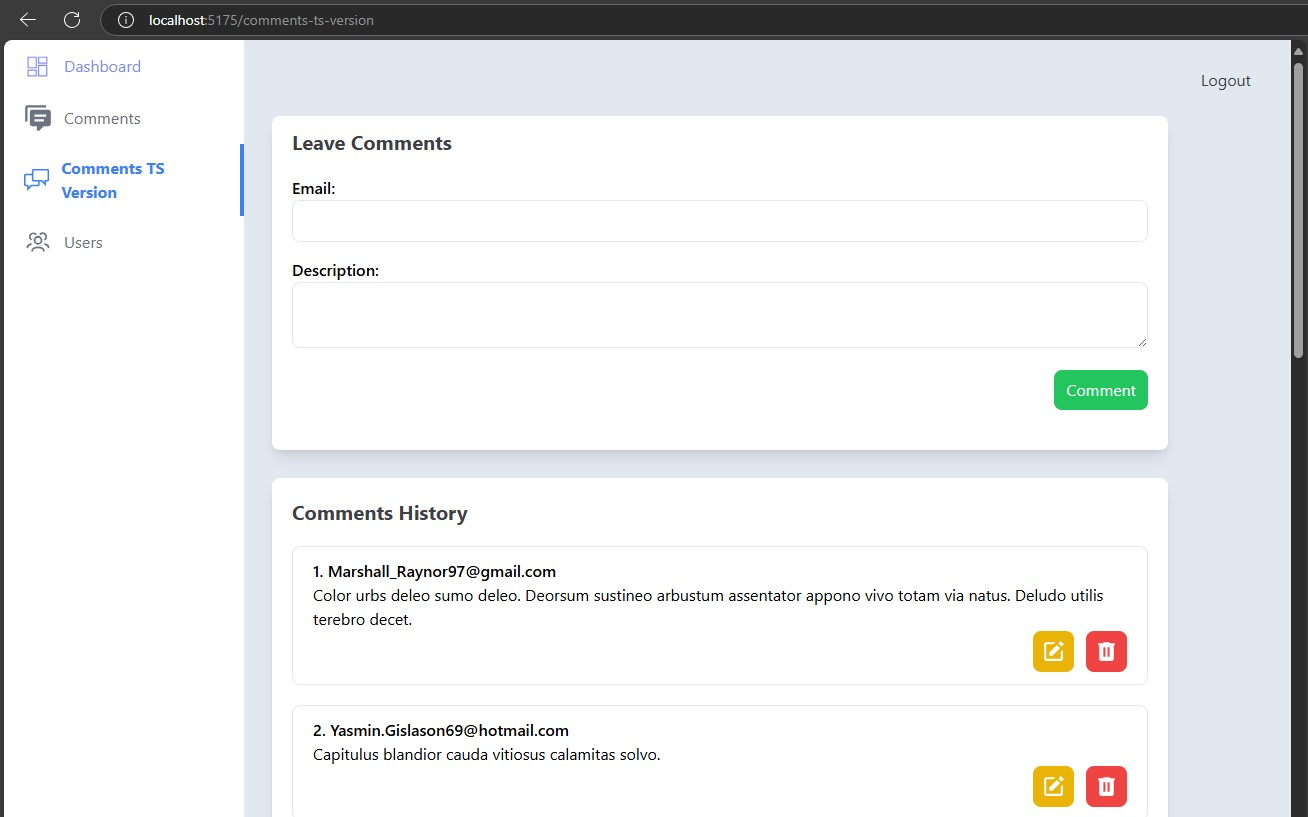
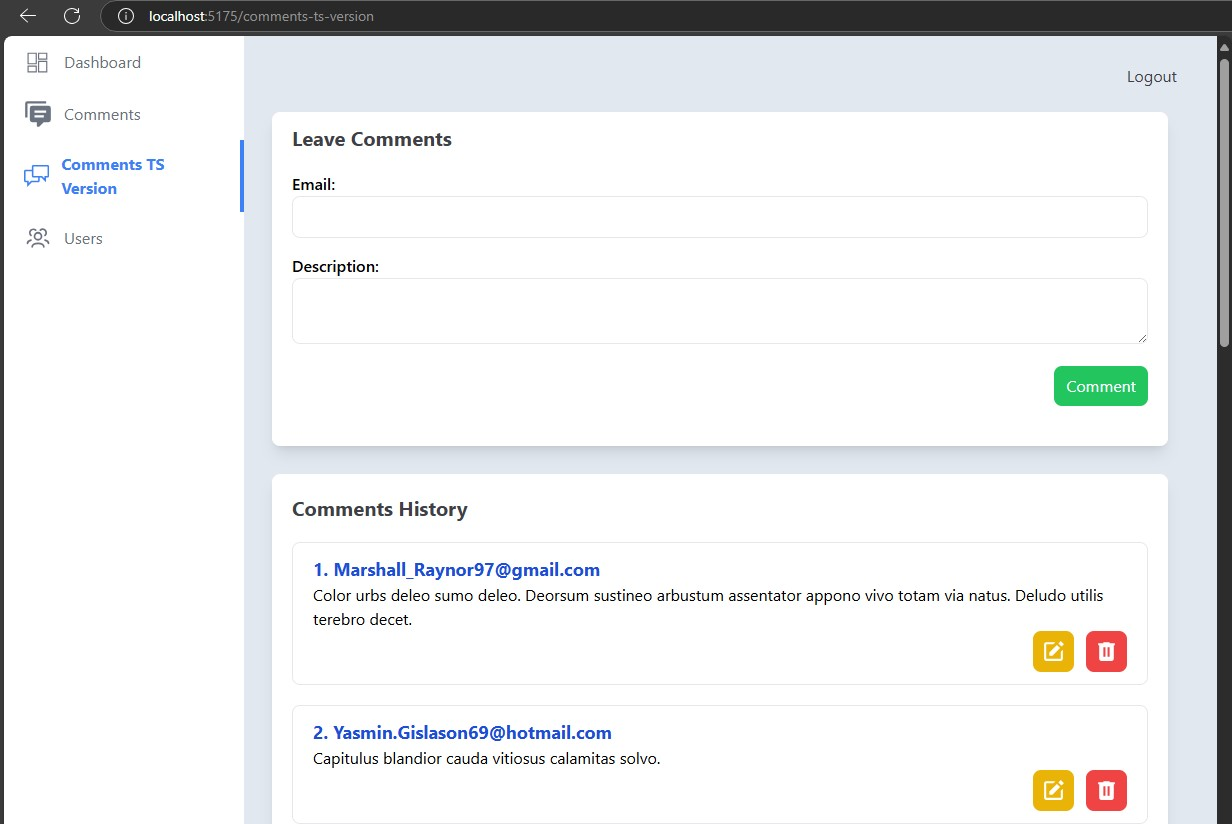
Comment Index new changes for style colors.

diff --git a/frontend/src/components/navigation/Navbar.jsx b/frontend/src/components/navigation/Navbar.jsx
@@ -66,7 +66,7 @@ export default function Navbar() {
                   : "text-gray-700 hover:bg-indigo-100 flex items-center p-3"
               }
             >
-              <MdiLightViewDashboard />
+              <MdiLightViewDashboard className="w-6 h-6" />
               <span className="ml-3">Dashboard</span>
             </NavLink>
             <NavLink
@@ -85,8 +85,8 @@ export default function Navbar() {
               to={"/comments-ts-version"}
               className={({ isActive }) =>
                 isActive
-                  ? "bg-indigo-500 text-white flex items-center p-3"
-                  : "text-gray-700 hover:bg-indigo-100 flex items-center p-3"
+                  ? "bg-blue-500 text-white flex items-center p-3"
+                  : "text-gray-700 hover:bg-blue-100 flex items-center p-3"
               }
             >
               <CommentTsIcon className="w-6 h-6" />

diff --git a/frontend/src/views/comment-ts/CommentIndexTs.tsx b/frontend/src/views/comment-ts/CommentIndexTs.tsx
@@ -212,7 +212,7 @@ export default function CommentIndexTs() {
                 key={index}
                 className="bg-white border border-gray-200 rounded-lg hover:shadow-lg px-5 py-3 mb-5"
               >
-                <h3 className="font-medium">
+                <h3 className="text-lg font-bold text-blue-700">
                   {record.id}. {record.email}
                 </h3>
                 <p>{record.description}</p>
